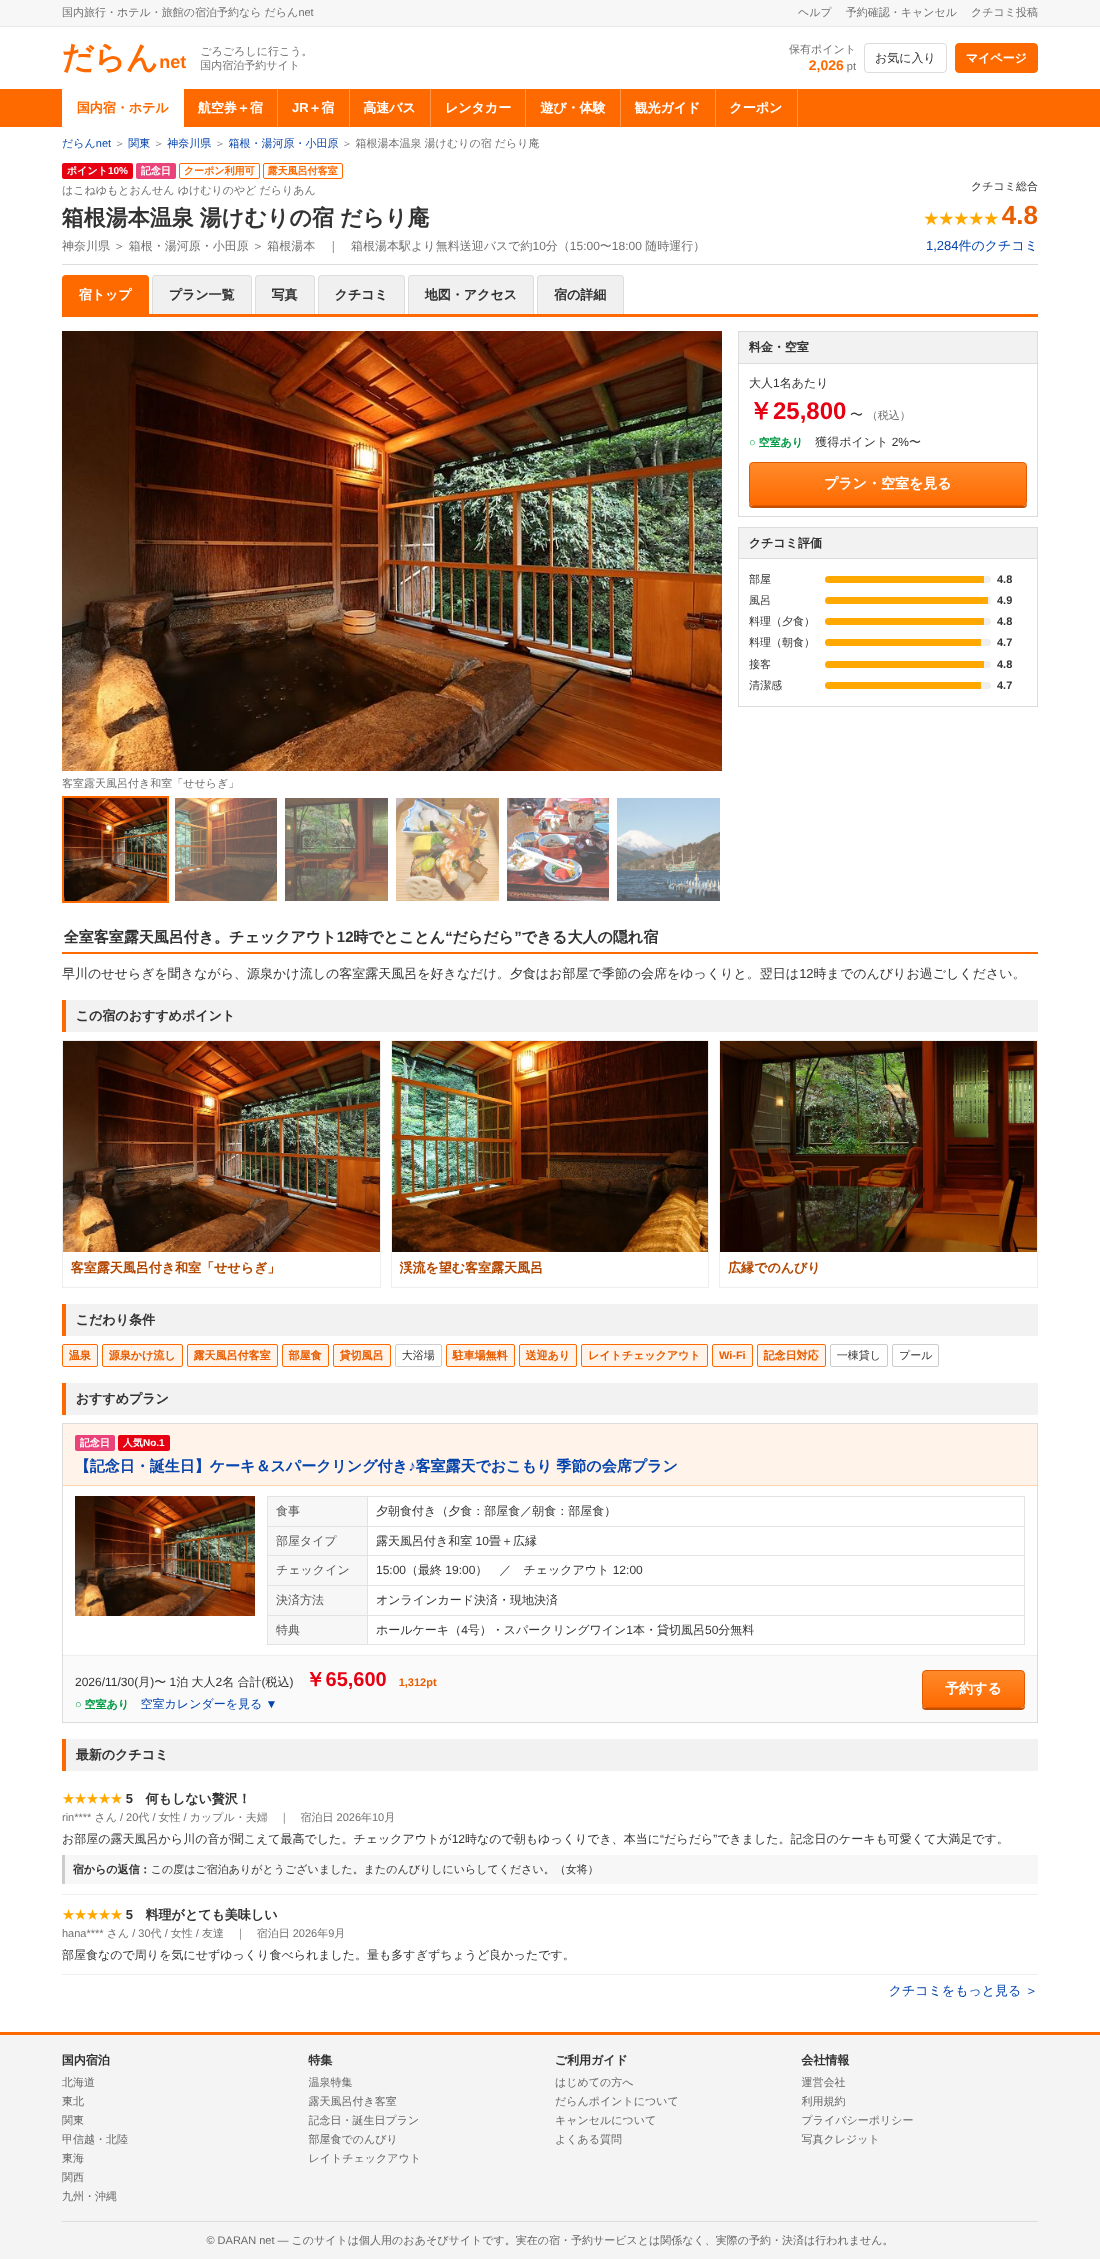
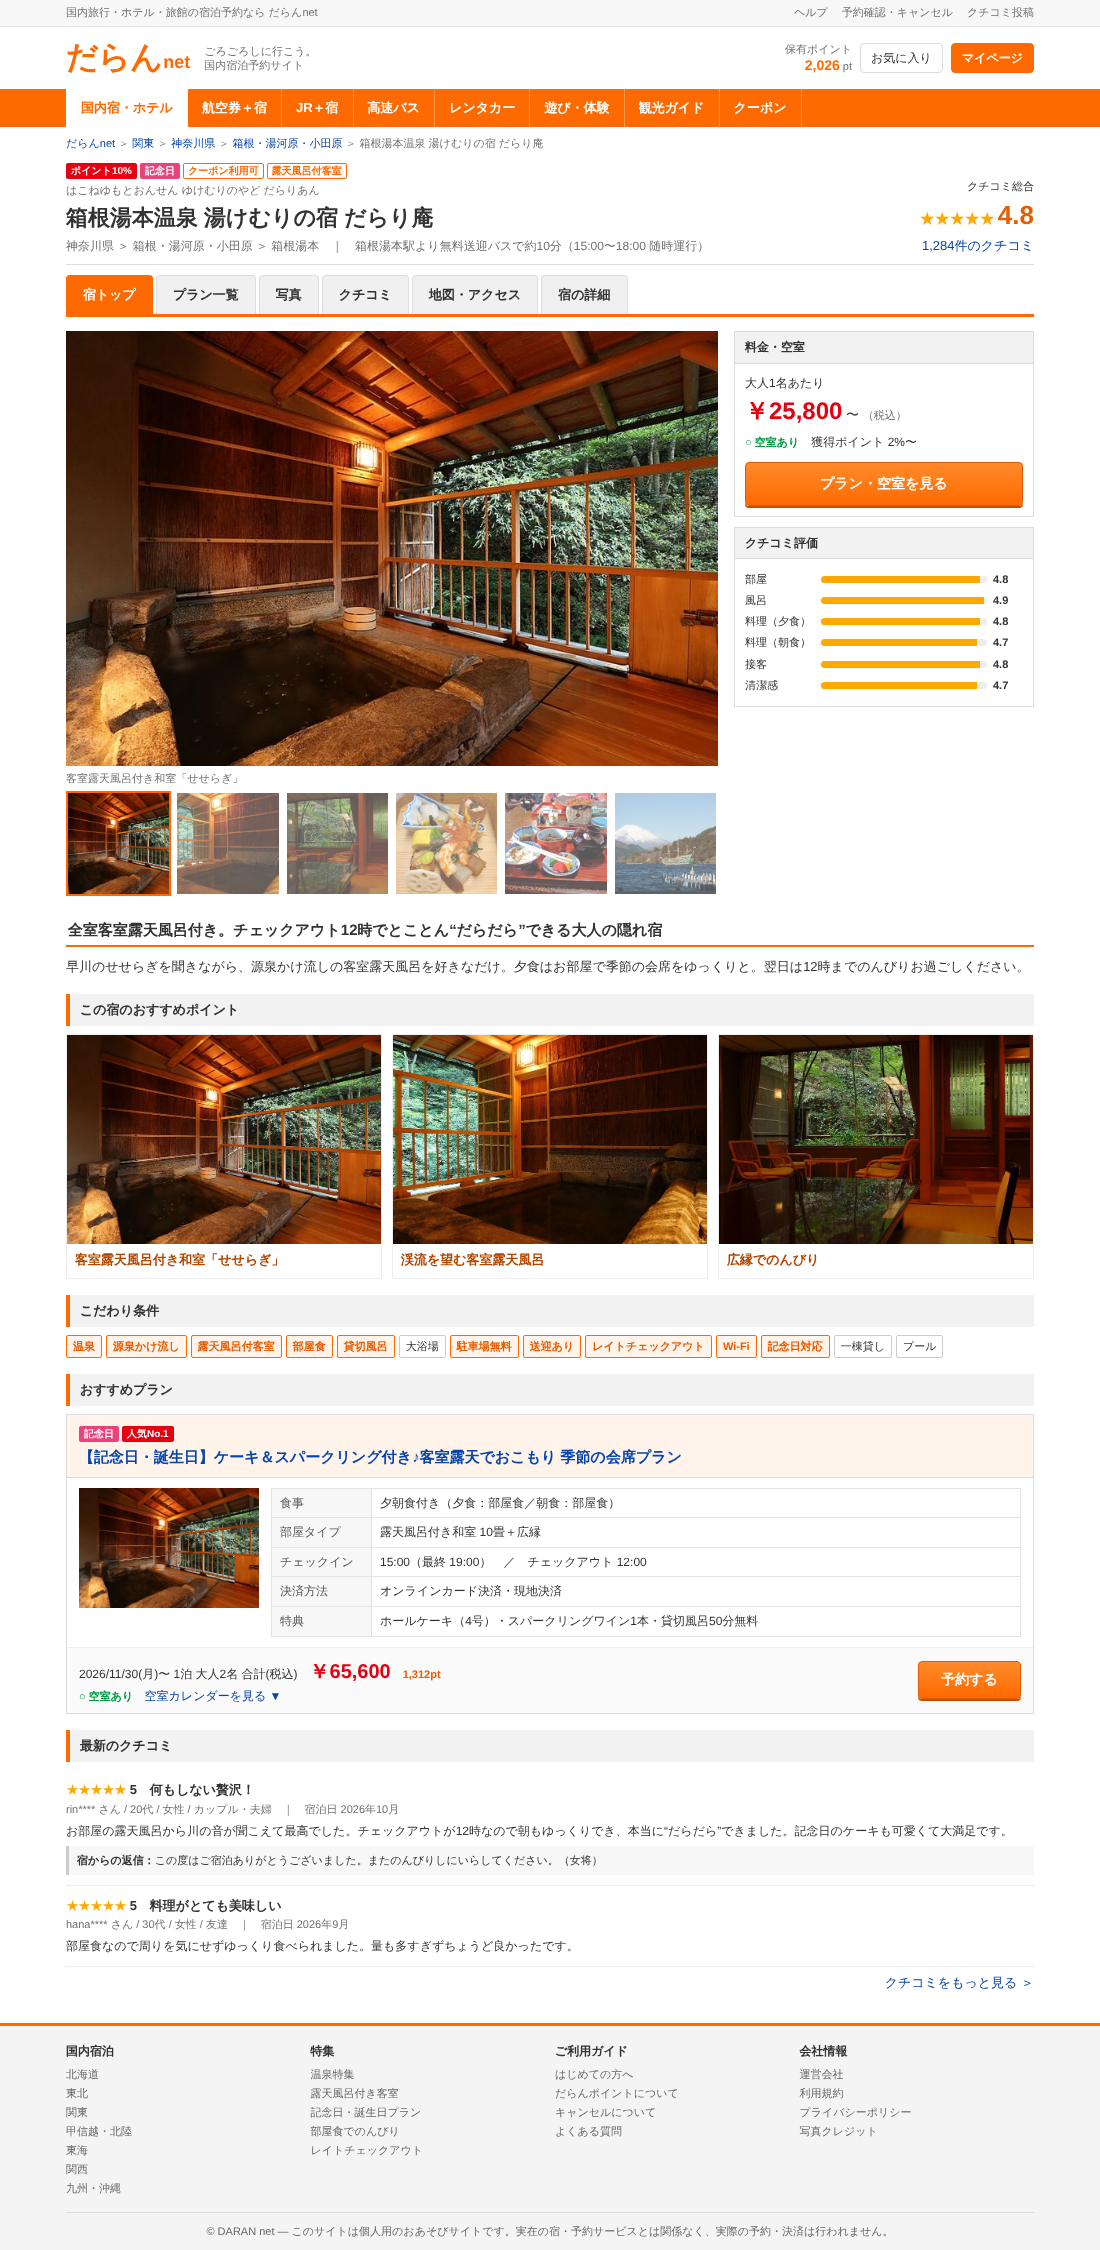
Use simple hash routes so the page works when embedded
Claude-Session: https://claude.ai/code/session_015u5TSz1iT3UyhxAaWgoqj3

diff --git a/index.html b/index.html
@@ -30,7 +30,7 @@
   a:hover { text-decoration: underline; }
   button, input, select, textarea { font-family: inherit; font-size: 13px; }
   img { display: block; max-width: 100%; }
-  .w { max-width: 1000px; margin: 0 auto; padding: 0 12px; }
+  .w { max-width: 1000px; margin: 0 auto; padding-left: max(16px, env(safe-area-inset-left, 0px)); padding-right: max(16px, env(safe-area-inset-right, 0px)); }
 
   /* ===== header ===== */
   .util { background: #f7f7f7; border-bottom: 1px solid #e8e8e8; font-size: 11px; color: var(--sub); }
@@ -48,7 +48,7 @@
   .pts { font-size: 11px; color: var(--sub); text-align: right; line-height: 1.3; }
   .pts b { color: var(--or); font-size: 14px; }
   .gnav { background: var(--or); }
-  .gnav ul { list-style: none; margin: 0 auto; padding: 0 12px; max-width: 1000px; display: flex; overflow-x: auto; scrollbar-width: none; }
+  .gnav ul { list-style: none; margin: 0 auto; padding: 0 max(16px, env(safe-area-inset-right, 0px)) 0 max(16px, env(safe-area-inset-left, 0px)); max-width: 1000px; display: flex; overflow-x: auto; scrollbar-width: none; }
   .gnav li { color: #fff; font-weight: 700; font-size: 13px; padding: 9px 14px; white-space: nowrap; border-right: 1px solid rgba(255,255,255,.3); }
   .gnav li:first-child { border-left: 1px solid rgba(255,255,255,.3); }
   .gnav li.on { background: #fff; color: var(--or); }
@@ -321,7 +321,7 @@
   <div class="r"><a>ヘルプ</a><a>予約確認・キャンセル</a><a>クチコミ投稿</a></div>
 </div></div>
 <div class="hdr"><div class="w">
-  <a class="logo" href="#/"><span class="a">だらん</span><span class="b">net</span></a>
+  <a class="logo" href="#top"><span class="a">だらん</span><span class="b">net</span></a>
   <div class="catch">ごろごろしに行こう。<br>国内宿泊予約サイト</div>
   <div class="mem">
     <div class="pts">保有ポイント<br><b>2,026</b> pt</div>
@@ -513,7 +513,7 @@ const S = {
 window.addEventListener("hashchange", route);
 function nav(h) { if (location.hash === h) route(); else location.hash = h; }
 function route() {
-  const parts = (location.hash.replace(/^#\/?/, "") || "").split("/").filter(Boolean);
+  const parts = (location.hash.replace(/^#\/?/, "") || "").split(/[-\/]/).filter(Boolean);
   window.scrollTo(0, 0);
   if (parts[0] === "hotel" && H(parts[1])) return hotelPage(H(parts[1]), parts[2] || "top");
   if (parts[0] === "book" && S.bk) return bookPage();
@@ -552,11 +552,11 @@ function bindSearch() {
     S.checkin = g("s-ci").value && g("s-ci").value >= TODAY ? g("s-ci").value : S.checkin;
     S.nights = +g("s-n").value; S.rooms = +g("s-r").value; S.adults = +g("s-a").value;
     for (const k in S.f) S.f[k] = g("o-" + k).checked;
-    nav("#/list");
+    nav("#list");
   };
   g("s-go").onclick = apply;
   g("s-kw").onkeydown = e => { if (e.key === "Enter") apply(); };
-  for (const k in S.f) g("o-" + k).onchange = () => { if (location.hash.startsWith("#/list")) apply(); };
+  for (const k in S.f) g("o-" + k).onchange = () => { if (location.hash.startsWith("#list")) apply(); };
 }
 
 /* ---------- TOP ---------- */
@@ -585,8 +585,8 @@ function topPage() {
     </div>
   `;
   bindSearch();
-  app.querySelectorAll("[data-kw]").forEach(a => a.onclick = () => { S.kw = a.dataset.kw; nav("#/list"); });
-  app.querySelectorAll("[data-h]").forEach(a => a.onclick = () => nav("#/hotel/" + a.dataset.h));
+  app.querySelectorAll("[data-kw]").forEach(a => a.onclick = () => { S.kw = a.dataset.kw; nav("#list"); });
+  app.querySelectorAll("[data-h]").forEach(a => a.onclick = () => nav("#hotel-" + a.dataset.h));
 }
 
 /* ---------- LIST ---------- */
@@ -614,7 +614,7 @@ function listPage() {
   const regions = {};
   HOTELS.forEach(h => regions[h.region] = (regions[h.region] || 0) + 1);
   app.innerHTML = `
-    <div class="crumb"><a href="#/">だらんnet</a> ＞ 国内宿・ホテル ＞ 検索結果${S.kw ? `「${esc(S.kw)}」` : ""}</div>
+    <div class="crumb"><a href="#top">だらんnet</a> ＞ 国内宿・ホテル ＞ 検索結果${S.kw ? `「${esc(S.kw)}」` : ""}</div>
     ${searchBox(`<span>条件を変更</span>して探す`)}
     <div class="lay" style="margin-top:14px">
       <aside class="side">
@@ -675,17 +675,17 @@ function hotelCard(h) {
     <div class="hc-head">
       <div>
         <div>${h.badges.map(b => `<span class="badge ${b[0]}">${b[1]}</span>`).join("")}</div>
-        <h3><a href="#/hotel/${h.id}">${esc(h.name)}</a></h3>
+        <h3><a href="#hotel-${h.id}">${esc(h.name)}</a></h3>
         <div class="area">${esc(h.pref)} ＞ ${esc(h.area)} ＞ ${esc(h.town)}</div>
       </div>
       <div class="hc-rv">
         クチコミ総合<br><span class="stars">${stars(h.rating)}</span><span class="score">${h.rating.toFixed(1)}</span><br>
-        <a class="rv-n" href="#/hotel/${h.id}/review">クチコミ ${h.reviews.toLocaleString()}件</a>
+        <a class="rv-n" href="#hotel-${h.id}-review">クチコミ ${h.reviews.toLocaleString()}件</a>
       </div>
     </div>
     <div class="hc-body">
       <div class="hc-photo">
-        <a href="#/hotel/${h.id}"><img class="main" src="img/${h.photos[0][0]}" alt="" loading="lazy"></a>
+        <a href="#hotel-${h.id}"><img class="main" src="img/${h.photos[0][0]}" alt="" loading="lazy"></a>
         <div class="subs">${h.photos.slice(1, 4).map(p => `<img src="img/${p[0]}" alt="" loading="lazy">`).join("")}</div>
       </div>
       <div class="hc-info">
@@ -705,7 +705,7 @@ function hotelCard(h) {
         const tot = stayTotal(h, p, S.checkin, S.nights, S.adults, 1);
         return `
         <div class="prow">
-          <div class="pn">${p.badges.map(b => `<span class="badge ${b[0]}">${b[1]}</span>`).join("")}<br><a href="#/hotel/${h.id}/plan">${esc(p.name)}</a>
+          <div class="pn">${p.badges.map(b => `<span class="badge ${b[0]}">${b[1]}</span>`).join("")}<br><a href="#hotel-${h.id}-plan">${esc(p.name)}</a>
             <div class="meta">🍽 ${esc(p.meal)}　🛏 ${esc(p.room)}</div></div>
           <div class="pp">${S.nights}泊${S.adults}名 合計(税込)<br><span class="price">${yen(tot)}</span><br>獲得 ${pts(tot).toLocaleString()}pt</div>
           <div class="pa">
@@ -716,7 +716,7 @@ function hotelCard(h) {
         </div>`;
       }).join("")}
     </div>
-    <div class="hc-foot"><a href="#/hotel/${h.id}/plan">この宿のプラン一覧（${h.plans.length}件）を見る ＞</a></div>
+    <div class="hc-foot"><a href="#hotel-${h.id}-plan">この宿のプラン一覧（${h.plans.length}件）を見る ＞</a></div>
   </div>`;
 }
 
@@ -725,7 +725,7 @@ function hotelPage(h, tab) {
   const ok = canBook(h);
   const tabs = [["top", "宿トップ"], ["plan", "プラン一覧"], ["photo", "写真"], ["review", "クチコミ"], ["map", "地図・アクセス"], ["info", "宿の詳細"]];
   app.innerHTML = `
-    <div class="crumb"><a href="#/">だらんnet</a> ＞ <a data-kw="${esc(h.pref)}">${esc(h.region)}</a> ＞ <a data-kw="${esc(h.pref)}">${esc(h.pref)}</a> ＞ <a data-kw="${esc(h.area.split("・")[0])}">${esc(h.area)}</a> ＞ ${esc(h.name)}</div>
+    <div class="crumb"><a href="#top">だらんnet</a> ＞ <a data-kw="${esc(h.pref)}">${esc(h.region)}</a> ＞ <a data-kw="${esc(h.pref)}">${esc(h.pref)}</a> ＞ <a data-kw="${esc(h.area.split("・")[0])}">${esc(h.area)}</a> ＞ ${esc(h.name)}</div>
     <div class="hp-head">
       <div>
         <div>${h.badges.map(b => `<span class="badge ${b[0]}">${b[1]}</span>`).join("")}</div>
@@ -736,13 +736,13 @@ function hotelPage(h, tab) {
       <div class="rv">
         <div style="font-size:11px">クチコミ総合</div>
         <span class="stars" style="font-size:16px">${stars(h.rating)}</span> <span class="big">${h.rating.toFixed(1)}</span>
-        <div><a href="#/hotel/${h.id}/review">${h.reviews.toLocaleString()}件のクチコミ</a></div>
+        <div><a href="#hotel-${h.id}-review">${h.reviews.toLocaleString()}件のクチコミ</a></div>
       </div>
     </div>
-    <div class="tabs">${tabs.map(([k, v]) => `<a href="#/hotel/${h.id}/${k}" class="${k === tab ? "on" : ""}">${v}</a>`).join("")}</div>
+    <div class="tabs">${tabs.map(([k, v]) => `<a href="#hotel-${h.id}-${k}" class="${k === tab ? "on" : ""}">${v}</a>`).join("")}</div>
     <div id="tabbody"></div>
   `;
-  app.querySelectorAll(".crumb [data-kw]").forEach(a => a.onclick = () => { S.kw = a.dataset.kw; nav("#/list"); });
+  app.querySelectorAll(".crumb [data-kw]").forEach(a => a.onclick = () => { S.kw = a.dataset.kw; nav("#list"); });
   const tb = document.getElementById("tabbody");
   if (tab === "top") tb.innerHTML = hotelTop(h);
   else if (tab === "plan") tb.innerHTML = planList(h);
@@ -783,7 +783,7 @@ function hotelTop(h) {
             <div style="font-size:12px">大人1名あたり</div>
             <div><span class="price" style="font-size:24px">${yen(minP)}</span> 〜 <span style="font-size:11px;color:var(--sub)">（税込）</span></div>
             <div style="font-size:12px;margin:4px 0 10px">${ok ? `<span class="vac ok" style="display:inline">○ 空室あり</span>` : `<span class="vac ng" style="display:inline">× 満室</span>`}　獲得ポイント 2%〜</div>
-            <a class="btn btn-or" href="#/hotel/${h.id}/plan" style="display:block;padding:10px 0;font-size:14px">プラン・空室を見る</a>
+            <a class="btn btn-or" href="#hotel-${h.id}-plan" style="display:block;padding:10px 0;font-size:14px">プラン・空室を見る</a>
           </div>
         </div>
         <div class="infobox rvbars">
@@ -806,7 +806,7 @@ function hotelTop(h) {
     ${planCards(h, h.plans.slice(0, 1))}
     <div class="h-sub">最新のクチコミ</div>
     ${reviewBlock(h, false)}
-    <div style="text-align:right;margin-top:6px"><a href="#/hotel/${h.id}/review">クチコミをもっと見る ＞</a></div>
+    <div style="text-align:right;margin-top:6px"><a href="#hotel-${h.id}-review">クチコミをもっと見る ＞</a></div>
   `;
 }
 function planList(h) {
@@ -904,7 +904,7 @@ function startBooking(hid, pid, ci) {
     sei: "", mei: "", seiK: "", meiK: "", email: "", tel: "", arrival: "15:00", pay: "card", usePt: false, coupon: true, req: "",
     filled: false, no: null,
   };
-  nav("#/book");
+  nav("#book");
 }
 function flow(i) {
   return `<div class="flow">${["プラン選択", "予約情報の入力", "予約内容の確認", "予約完了"].map((n, k) => `<div class="${k === i ? "on" : k < i ? "done" : ""}">${k + 1}. ${n}</div>`).join("")}</div>`;
@@ -939,7 +939,7 @@ function bookPage() {
   const b = S.bk, h = H(b.hid), p = P(h, b.pid);
   const times = ["15:00", "15:30", "16:00", "16:30", "17:00", "17:30", "18:00", "18:30", "19:00"];
   app.innerHTML = `
-    <div class="crumb"><a href="#/">だらんnet</a> ＞ <a href="#/hotel/${h.id}">${esc(h.name)}</a> ＞ 予約情報の入力</div>
+    <div class="crumb"><a href="#top">だらんnet</a> ＞ <a href="#hotel-${h.id}">${esc(h.name)}</a> ＞ 予約情報の入力</div>
     ${flow(1)}
     <div class="bk">
       <div>
@@ -982,7 +982,7 @@ function bookPage() {
         <table class="ftbl"><tr id="r-agree"><td style="text-align:center"><label style="cursor:pointer"><input type="checkbox" id="b-agree"> 上記の規約に同意する</label><div class="err">規約への同意が必要です</div></td></tr></table>
 
         <div class="cta"><button class="btn btn-or" id="b-next">予約内容の確認へ進む</button></div>
-        <div class="back"><a href="#/hotel/${h.id}/plan">＜ プラン一覧に戻る</a></div>
+        <div class="back"><a href="#hotel-${h.id}-plan">＜ プラン一覧に戻る</a></div>
       </div>
       <div id="sumwrap">${sumBox(b)}</div>
     </div>`;
@@ -1007,13 +1007,13 @@ function bookPage() {
     if (!g("b-agree").checked) bad.push("r-agree");
     bad.forEach(id => g(id).classList.add("bad"));
     if (bad.length) { g(bad[0]).scrollIntoView({ behavior: "smooth", block: "center" }); return; }
-    b.filled = true; nav("#/confirm");
+    b.filled = true; nav("#confirm");
   };
 }
 function confirmPage() {
   const b = S.bk, c = calc(b);
   app.innerHTML = `
-    <div class="crumb"><a href="#/">だらんnet</a> ＞ <a href="#/hotel/${c.h.id}">${esc(c.h.name)}</a> ＞ 予約内容の確認</div>
+    <div class="crumb"><a href="#top">だらんnet</a> ＞ <a href="#hotel-${c.h.id}">${esc(c.h.name)}</a> ＞ 予約内容の確認</div>
     ${flow(2)}
     <div class="bk">
       <div>
@@ -1037,14 +1037,14 @@ function confirmPage() {
           ${b.req ? `<tr><th>ご要望</th><td>${esc(b.req)}</td></tr>` : ""}
         </table>
         <div class="cta"><button class="btn btn-or" id="c-ok">予約を確定する</button></div>
-        <div class="back"><a href="#/book">＜ 入力内容を修正する</a></div>
+        <div class="back"><a href="#book">＜ 入力内容を修正する</a></div>
       </div>
       ${sumBox(b)}
     </div>`;
   document.getElementById("c-ok").onclick = () => {
     const btn = document.getElementById("c-ok");
     btn.disabled = true; btn.textContent = "予約処理中…";
-    setTimeout(() => { b.no = String(Math.floor(10000000 + Math.random() * 89999999)); nav("#/done"); }, 900);
+    setTimeout(() => { b.no = String(Math.floor(10000000 + Math.random() * 89999999)); nav("#done"); }, 900);
   };
 }
 function donePage() {
@@ -1088,7 +1088,7 @@ ${esc(c.h.access)}
 
 だらんnet</pre>
     </div>
-    <div class="cta"><a class="btn btn-gr" href="#/" style="padding:10px 30px;width:auto" onclick="S.bk=null">だらんnetトップへ</a></div>`;
+    <div class="cta"><a class="btn btn-gr" href="#top" style="padding:10px 30px;width:auto" onclick="S.bk=null">だらんnetトップへ</a></div>`;
 }
 
 route();
